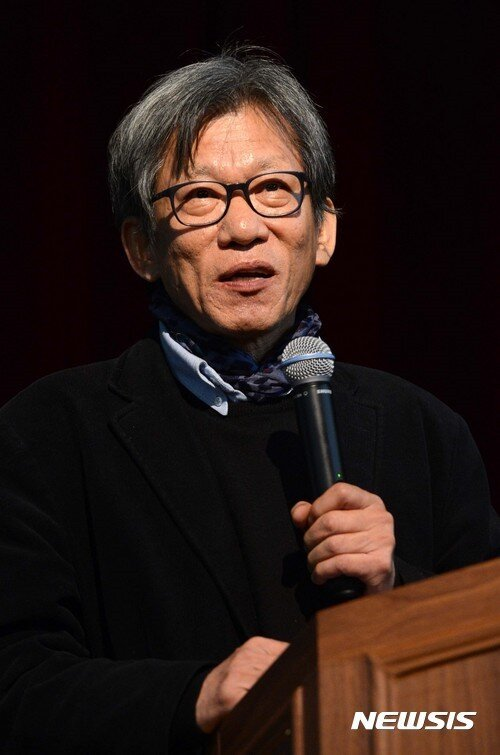
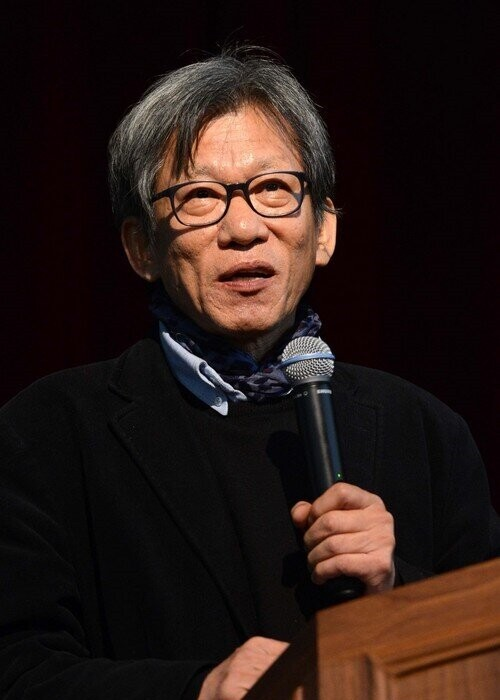
강사 슬라이드 디자인 피드백 반영: 49/84/85/109/116/129/130번 및 게임명 전체 수정
- 49번(고정관념 두 축): 중앙 안내 카드를 위쪽으로 이동해 좌우 패널 텍스트 가림 해소
- 84번(아는 만큼 보인다): 원본 PPT 삽화(돋보기 캐릭터) 복원
- 85번(유홍준 교수 인용): 사진 워터마크(NEWSIS) 크롭 제거, 인용구 2줄로 정리, 레이아웃 좌측 쏠림 보정
- 109번(스피드 줄줄이 말해요 인트로): 배경 흰색 → 검정으로 변경(본문 텍스트 가독성 문제 동시 해결)
- 116번(공감능력은 키울 수 있다): 인용문 줄바꿈 조정 및 글자 크기 확대
- 129번(1% 매일의 성장): 원본 PPT의 반복 곱셈 시각효과·노란 강조 배너를 웹앱 카드 양식으로 재구성
- 130번(스티븐 코비 인용): 기존 인용 슬라이드 패턴(큰 따옴표+본문+출처)에 맞춰 레이아웃 재정리
- '스피드 줄줄이 말해' → '스피드 줄줄이 말해요' 전체 수정

Changed region(s): [[0.21, 0.06, 1.0, 1.0], [0.63, 0.99, 0.66, 1.0]]

diff --git a/platform/public/host/index.html b/platform/public/host/index.html
@@ -833,7 +833,7 @@ a:hover{color:var(--red-300)}
 <div style="position:relative;display:grid;grid-template-columns:1fr 1fr;flex:1">
 <div data-build="1" data-build-fx="fade" style="background:var(--surface-inset);display:flex;flex-direction:column;align-items:center;justify-content:center;gap:20px;padding:72px"><span class="apex-eyebrow" style="font-size:27px;color:var(--text-muted)">상대방의 의도</span><span style="font-family:var(--font-display);font-weight:700;font-size:80px;color:var(--text-primary)">= 따뜻함</span></div>
 <div data-build="2" data-build-fx="fade" style="background:var(--grid-azure);display:flex;flex-direction:column;align-items:center;justify-content:center;gap:20px;padding:72px"><span class="apex-eyebrow" style="font-size:27px;color:rgba(6,7,10,.62)">의도를 실행할 능력</span><span style="font-family:var(--font-display);font-weight:700;font-size:80px;color:#06070A">= 유능함</span></div>
-<div style="position:absolute;top:50%;left:50%;transform:translate(-50%,-50%);width:920px;background:var(--carbon-950);border-radius:16px;padding:52px 60px;display:flex;flex-direction:column;align-items:center;gap:18px;text-align:center;box-shadow:0 32px 70px rgba(0,0,0,.4);z-index:2"><span style="font-size:52px;line-height:1">💡</span><p style="margin:0;font-size:38px;line-height:1.5;color:var(--white)">사람들은 타인을 판단할 때<br>고정관념적으로 판단하는 <span style="color:var(--grid-yellow)">2가지</span>가 있다</p></div>
+<div style="position:absolute;top:20%;left:50%;transform:translate(-50%,-50%);width:920px;background:var(--carbon-950);border-radius:16px;padding:36px 60px;display:flex;flex-direction:column;align-items:center;gap:14px;text-align:center;box-shadow:0 32px 70px rgba(0,0,0,.4);z-index:2"><span style="font-size:44px;line-height:1">💡</span><p style="margin:0;font-size:34px;line-height:1.5;color:var(--white)">사람들은 타인을 판단할 때<br>고정관념적으로 판단하는 <span style="color:var(--grid-yellow)">2가지</span>가 있다</p></div>
 </div>
 </section>
 
@@ -1192,16 +1192,16 @@ a:hover{color:var(--red-300)}
 <section data-label="아는 만큼 보인다" data-speaker-notes="퀴즈로 알 수 있는 것: 아는 만큼 보인다. '아는 만큼 보인다' 문구는 다음으로 입력 시 애니메이션으로 노출." style="background-color:var(--bg-page);background-image:var(--texture-carbon);color:var(--text-primary);font-family:var(--font-core);padding:52px 72px;display:flex;flex-direction:column;justify-content:center;gap:36px" data-om-slide-id="d2q-11">
 <div style="display:flex;align-items:center;justify-content:space-between;border-bottom:1px solid var(--border-hairline);padding-bottom:16px"><span class="apex-eyebrow" style="font-size:27px;color:var(--grid-yellow)">Quiz!를 통해 알 수 있는 것</span></div>
 <div data-build="1" data-build-fx="fade" style="flex:1;display:flex;align-items:center;justify-content:center"><h2 style="margin:0;font-family:var(--font-display);font-weight:700;font-size:130px;line-height:1.2;text-align:center">아는 <span style="color:var(--grid-yellow)">만큼</span> <span style="color:var(--grid-azure)">보</span>인다.</h2></div>
-<p style="margin:0;font-size:27px;color:var(--text-muted);text-align:right">미술사학자 유홍준 교수(제3대 문화재청 청장 역임) · &lt;나의 문화유산답사기&gt; 저자</p>
+<div style="display:flex;align-items:center;justify-content:flex-end;gap:24px"><img src="/host/assets/day2-quiz-magnifier.png" alt="" style="width:120px;height:auto;flex-shrink:0"><p style="margin:0;font-size:27px;color:var(--text-muted);text-align:right">미술사학자 유홍준 교수(제3대 문화재청 청장 역임) · &lt;나의 문화유산답사기&gt; 저자</p></div>
 </section>
 
 <section data-label="아는 만큼 보인다 인용" data-speaker-notes="유홍준 교수 인용. 관찰과 이해가 쌓여야 다르게 보인다는 메시지로 M4로 연결." style="background:#06070A;color:var(--white);font-family:var(--font-core);padding:0;display:flex;flex-direction:column" data-om-slide-id="d2q-12">
-<div style="display:grid;grid-template-columns:520px 1fr;flex:1">
-<div style="width:100%;height:100%;overflow:hidden"><img src="/host/assets/day2-prof-yoo.jpg" alt="유홍준 교수" style="width:100%;height:100%;object-fit:cover"></div>
-<div style="display:flex;flex-direction:column;justify-content:center;gap:28px;padding:64px 72px">
+<div style="display:grid;grid-template-columns:460px 1fr;flex:1">
+<div style="width:100%;height:100%;overflow:hidden"><img src="/host/assets/day2-prof-yoo.jpg" alt="유홍준 교수" style="width:100%;height:100%;object-fit:cover;object-position:50% 15%"></div>
+<div style="display:flex;flex-direction:column;justify-content:center;gap:28px;padding:64px 96px">
 <span class="apex-eyebrow" style="font-size:27px;color:var(--grid-azure)">아는 만큼 보인다!</span>
 <span class="apex-num apex-skew" style="display:inline-block;font-size:80px;color:var(--red-500);line-height:1">“</span>
-<p style="margin:0;font-size:52px;line-height:1.5;color:var(--white)">사랑하면 알게 되고 <br>알게 되면 보이나니, <br>그때 보이는 것은 <br>전과 같지 않으리라.</p>
+<p style="margin:0;font-size:52px;line-height:1.5;color:var(--white)">사랑하면 알게 되고 알게 되면 보이나니, <br>그때 보이는 것은 전과 같지 않으리라.</p>
 <p style="margin:0;font-size:27px;color:var(--text-muted)">- 미술사학자 유홍준 교수(제3대 문화재청 청장 역임) <br>&lt;나의 문화유산답사기&gt; 저자 -</p>
 </div>
 </div>
@@ -1580,17 +1580,17 @@ a:hover{color:var(--red-300)}
 <button type="button" data-build-start="1" onClick="{{ vid4Toggle }}" style="background:transparent;color:var(--text-muted);border:1px solid var(--border-hairline);border-radius:4px;padding:8px 18px;font-family:var(--font-display);font-weight:700;font-size:16px;letter-spacing:.1em;cursor:pointer">{{ vid4Btn }}</button>
 </section>
 
-<section class="apex-light" data-label="소통리더십 마인드 인트로" data-speaker-notes="반원들의 성장을 위한 소통리더십 마인드 3가지 - 게임: 스피드 줄줄이 말해." style="background:var(--bg-page);color:var(--text-primary);font-family:var(--font-core);padding:52px 72px;display:flex;flex-direction:column;justify-content:center;gap:36px" data-om-slide-id="d2c-02">
+<section data-label="소통리더십 마인드 인트로" data-speaker-notes="반원들의 성장을 위한 소통리더십 마인드 3가지 - 게임: 스피드 줄줄이 말해요." style="background:#06070A;color:var(--text-primary);font-family:var(--font-core);padding:52px 72px;display:flex;flex-direction:column;justify-content:center;gap:36px" data-om-slide-id="d2c-02">
 <div style="display:flex;align-items:center;justify-content:space-between;border-bottom:1px solid var(--border-hairline);padding-bottom:16px"><span class="apex-eyebrow" style="font-size:27px;color:var(--text-muted)">반원들의 성장을 위한 소통리더십 마인드 3가지</span></div>
 <div style="flex:1;display:flex;flex-direction:column;align-items:center;justify-content:center;gap:32px">
-<span style="background:var(--grid-yellow);color:#06070A;font-family:var(--font-display);font-weight:700;font-size:56px;padding:24px 56px;border-radius:999px">스피드 줄줄이 말해</span>
+<span style="background:var(--grid-yellow);color:#06070A;font-family:var(--font-display);font-weight:700;font-size:56px;padding:24px 56px;border-radius:999px">스피드 줄줄이 말해요</span>
 <p style="margin:0;font-size:44px;line-height:1.6;color:var(--white);text-align:center">제시어를 보고 떠오르는 단어를<br>팀원들과 겹치지 않게 순서대로 말하는 게임</p>
 <p style="margin:0;font-size:32px;color:var(--text-muted)">예) 과일이름: 수박, 딸기, 바나나, 사과 등</p>
 </div>
 </section>
 
-<section class="apex-light" data-label="게임 룰" data-speaker-notes="스피드 줄줄이 말해 게임 진행 규칙." style="background:var(--bg-page);color:var(--text-primary);font-family:var(--font-core);padding:52px 72px;display:flex;flex-direction:column;justify-content:center;gap:36px" data-om-slide-id="d2c-03">
-<div style="display:flex;align-items:center;justify-content:space-between;border-bottom:1px solid var(--border-hairline);padding-bottom:16px"><span class="apex-eyebrow" style="font-size:27px;color:var(--text-muted)">스피드 줄줄이 말해 · RULE</span></div>
+<section class="apex-light" data-label="게임 룰" data-speaker-notes="스피드 줄줄이 말해요 게임 진행 규칙." style="background:var(--bg-page);color:var(--text-primary);font-family:var(--font-core);padding:52px 72px;display:flex;flex-direction:column;justify-content:center;gap:36px" data-om-slide-id="d2c-03">
+<div style="display:flex;align-items:center;justify-content:space-between;border-bottom:1px solid var(--border-hairline);padding-bottom:16px"><span class="apex-eyebrow" style="font-size:27px;color:var(--text-muted)">스피드 줄줄이 말해요 · RULE</span></div>
 <div style="display:flex;flex-direction:column;justify-content:center;gap:2px;flex:1">
 <div style="background:var(--surface-card);border-left:6px solid var(--grid-yellow);display:flex;gap:28px;padding:30px 36px;align-items:center"><span class="apex-num apex-skew" style="display:inline-block;font-size:48px;color:var(--grid-yellow);width:64px">1</span><p style="margin:0;flex:1;font-size:40px;line-height:1.5;color:var(--text-primary)">‘도전’을 외쳐야 기회 제공</p></div>
 <div style="background:var(--surface-card);border-left:6px solid var(--grid-yellow);display:flex;gap:28px;padding:30px 36px;align-items:center"><span class="apex-num apex-skew" style="display:inline-block;font-size:48px;color:var(--grid-yellow);width:64px">2</span><p style="margin:0;flex:1;font-size:40px;line-height:1.5;color:var(--text-primary)">강사가 지정한 사람부터 오른쪽 방향으로 진행</p></div>
@@ -1599,8 +1599,8 @@ a:hover{color:var(--red-300)}
 </div>
 </section>
 
-<section class="apex-light" data-label="게임 주제 예시" data-speaker-notes="스피드 줄줄이 말해 제시어 예시 목록." style="background:var(--bg-page);color:var(--text-primary);font-family:var(--font-core);padding:52px 72px;display:flex;flex-direction:column;justify-content:center;gap:36px" data-om-slide-id="d2c-04">
-<div style="display:flex;align-items:center;justify-content:space-between;border-bottom:1px solid var(--border-hairline);padding-bottom:16px"><span class="apex-eyebrow" style="font-size:27px;color:var(--text-muted)">스피드 줄줄이 말해 · 제시어 예시</span></div>
+<section class="apex-light" data-label="게임 주제 예시" data-speaker-notes="스피드 줄줄이 말해요 제시어 예시 목록." style="background:var(--bg-page);color:var(--text-primary);font-family:var(--font-core);padding:52px 72px;display:flex;flex-direction:column;justify-content:center;gap:36px" data-om-slide-id="d2c-04">
+<div style="display:flex;align-items:center;justify-content:space-between;border-bottom:1px solid var(--border-hairline);padding-bottom:16px"><span class="apex-eyebrow" style="font-size:27px;color:var(--text-muted)">스피드 줄줄이 말해요 · 제시어 예시</span></div>
 <div style="display:grid;grid-template-columns:repeat(2,1fr);gap:2px;flex:1">
 <div style="background:var(--surface-card);padding:36px 44px;display:flex;align-items:center"><p style="margin:0;font-size:42px;color:var(--text-primary)">두 글자 과자 이름</p></div>
 <div style="background:var(--surface-card);padding:36px 44px;display:flex;align-items:center"><p style="margin:0;font-size:42px;color:var(--text-primary)">두 글자 영화 제목</p></div>
@@ -1654,7 +1654,7 @@ a:hover{color:var(--red-300)}
 <div style="display:grid;grid-template-columns:1fr 420px;gap:56px;flex:1;align-items:center">
 <div style="display:flex;flex-direction:column;gap:20px">
 <span class="apex-num apex-skew" style="display:inline-block;font-size:80px;color:var(--grid-yellow);line-height:1">“</span>
-<p style="margin:0;font-size:38px;line-height:1.6;color:var(--white)">타고난 성격은 쉽게 바꾸기 어렵지만, 성품은 노력에 따라 얼마든지 달라질 수 있습니다.</p>
+<p style="margin:0;font-size:46px;line-height:1.5;color:var(--white)">타고난 성격은 쉽게 바꾸기 어렵지만, <br>성품은 노력에 따라 얼마든지 달라질 수 있습니다.</p>
 <p style="margin:0;font-size:32px;line-height:1.6;color:var(--text-body)">성품이란 다른 사람의 마음을 헤아리는 공감, 상대를 배려하며 말하는 화법, 상황과 분위기를 살피는 센스, 그리고 함께 협력하고 공존하려는 태도와 노력입니다.</p>
 <p style="margin:0;font-size:27px;color:var(--text-muted)">- 인지심리학자 아주대학교 김경일 교수 -</p>
 </div>
@@ -1801,16 +1801,20 @@ a:hover{color:var(--red-300)}
 
 <section class="apex-light" data-label="1% 매일의 성장" data-speaker-notes="나의 작은 실천이 우리 반원의 성장과 성과에 영향을 미친다. (1.00)^365=1 vs (1.01)^365=37.78. 음성 내레이션 포함, '다음으로' 1회 = 재생, 2회 = 일시정지." style="background:var(--bg-page);color:var(--text-primary);font-family:var(--font-core);padding:52px 72px;display:flex;flex-direction:column;justify-content:center;gap:32px" data-om-slide-id="d2f-01">
 <div style="display:flex;align-items:center;justify-content:space-between;border-bottom:1px solid var(--border-hairline);padding-bottom:16px"><span class="apex-eyebrow" style="font-size:27px;color:var(--text-muted)">나의 작은 실천이 우리의 반원의 성장과 성과에 영향을 미친다</span></div>
-<div style="display:grid;grid-template-columns:1fr 1fr;gap:2px;flex:1">
-<div style="background:var(--surface-card);display:flex;flex-direction:column;align-items:center;justify-content:center;gap:18px;padding:36px">
-<p style="margin:0;font-family:var(--font-display);font-weight:700;font-size:48px;color:var(--text-muted)">(1.00)<sup style="font-size:28px">365</sup> = 1</p>
-<p style="margin:0;font-size:22px;line-height:1.7;color:var(--text-muted);text-align:center">1.00 X 1.00 X 1.00 X ⋯ X 1.00 =</p>
-<p style="margin:0;font-family:var(--font-display);font-weight:700;font-size:72px;color:var(--text-muted)">1.00</p>
+<div style="display:grid;grid-template-columns:1fr 1fr;gap:28px;flex:1">
+<div style="display:flex;flex-direction:column;gap:14px">
+<p style="margin:0;font-family:var(--font-display);font-weight:700;font-size:44px;color:var(--text-muted);text-align:center">(1.00)<sup style="font-size:24px">365</sup> = 1</p>
+<div style="background:var(--surface-card);border-radius:12px;flex:1;display:flex;flex-direction:column;align-items:center;justify-content:center;gap:20px;padding:32px">
+<p style="margin:0;font-size:19px;line-height:1.9;color:var(--text-muted);text-align:center">1.00 X 1.00 X 1.00 X 1.00 X 1.00<br>X 1.00 X 1.00 X 1.00 X 1.00 X 1.00<br>X 1.00 X 1.00 X 1.00 X 1.00 X 1.00<br>X 1.00 X 1.00 · · · · · X 1.00 =</p>
+<p style="margin:0;font-family:var(--font-display);font-weight:700;font-size:64px;color:var(--text-muted)">1.00</p>
 </div>
-<div style="background:var(--surface-card);border-top:6px solid var(--grid-yellow);display:flex;flex-direction:column;align-items:center;justify-content:center;gap:18px;padding:36px">
-<p style="margin:0;font-family:var(--font-display);font-weight:700;font-size:48px;color:var(--grid-yellow)">(1.01)<sup style="font-size:28px">365</sup> = 37.78</p>
-<p style="margin:0;font-size:22px;line-height:1.7;color:var(--text-body);text-align:center">1.01 X 1.01 X 1.01 X ⋯ X 1.01 =</p>
-<p style="margin:0;font-family:var(--font-display);font-weight:700;font-size:72px;color:var(--red-500)">37.78</p>
+</div>
+<div style="display:flex;flex-direction:column;gap:14px">
+<p style="margin:0;font-family:var(--font-display);font-weight:700;font-size:44px;color:#06070A;text-align:center;background:var(--grid-yellow);border-radius:999px;padding:6px 0">(1.01)<sup style="font-size:24px">365</sup> = 37.78</p>
+<div style="background:var(--surface-card);border-top:6px solid var(--grid-yellow);border-radius:12px;flex:1;display:flex;flex-direction:column;align-items:center;justify-content:center;gap:20px;padding:32px">
+<p style="margin:0;font-size:19px;line-height:1.9;color:var(--text-body);text-align:center">1.01 X 1.01 X 1.01 X 1.01 X 1.01<br>X 1.01 X 1.01 X 1.01 X 1.01 X 1.01<br>X 1.01 X 1.01 X 1.01 X 1.01 X 1.01<br>X 1.01 X 1.01 · · · · · X 1.01 =</p>
+<p style="margin:0;font-family:var(--font-display);font-weight:700;font-size:64px;color:var(--red-500)">37.78</p>
+</div>
 </div>
 </div>
 <div style="display:flex;flex-direction:column;align-items:center;gap:10px">
@@ -1821,16 +1825,15 @@ a:hover{color:var(--red-300)}
 
 <section data-label="스티븐 코비 인용" data-speaker-notes="매일의 작은 개선이 결국 엄청난 성과로 이어진다 - 스티븐 코비." style="background:#06070A;color:var(--white);font-family:var(--font-core);padding:0;display:flex;flex-direction:column" data-om-slide-id="d2f-02">
 <div style="display:grid;grid-template-columns:1fr 520px;flex:1">
-<div style="display:flex;flex-direction:column;justify-content:center;gap:22px;padding:64px 72px">
+<div style="display:flex;flex-direction:column;justify-content:center;gap:24px;padding:64px 72px">
 <span class="apex-eyebrow" style="font-size:27px;color:var(--grid-yellow)">나의 작은 실천이 우리의 반원의 성장과 성과에 영향을 미친다</span>
-<p style="margin:0;font-style:italic;font-size:28px;color:var(--text-muted)">"Small daily improvements eventually lead to massive results."</p>
-<div style="display:flex;align-items:flex-start;gap:16px">
-<img src="/host/assets/day2-covey-book.jpg" alt="7 Habits on the Go" style="width:140px;border-radius:6px;flex-shrink:0">
-<div style="display:flex;flex-direction:column;gap:14px">
-<p style="margin:0;font-family:var(--font-display);font-weight:700;font-size:46px;line-height:1.4;color:var(--white)">매일의 작은 개선이<br>결국 엄청난 성과로 이어진다.</p>
+<span class="apex-num apex-skew" style="display:inline-block;font-size:80px;color:var(--red-500);line-height:1">“</span>
+<p style="margin:0;font-family:var(--font-display);font-weight:700;font-size:52px;line-height:1.4;color:var(--white)">매일의 작은 개선이<br>결국 엄청난 성과로 이어진다.</p>
+<p style="margin:0;font-style:italic;font-size:26px;color:var(--text-muted)">"Small daily improvements eventually lead to massive results."</p>
+<div style="display:flex;align-items:center;gap:16px;margin-top:8px">
+<img src="/host/assets/day2-covey-book.jpg" alt="7 Habits on the Go" style="width:70px;border-radius:4px;flex-shrink:0">
+<p style="margin:0;font-size:26px;line-height:1.5;color:var(--text-muted)">- 경영 컨설턴트, 작가, 연설가, 리더십과 자기계발 분야의 전문가<br>스티븐 코비(Stephen R. Covey) -</p>
 </div>
-</div>
-<p style="margin:0;font-size:26px;color:var(--text-muted)">- 경영 컨설턴트, 작가, 연설가, 리더십과 자기계발 분야의 전문가 스티븐 코비(Stephen R. Covey) -</p>
 </div>
 <div style="width:100%;height:100%;overflow:hidden"><img src="/host/assets/day2-stephen-covey.jpg" alt="스티븐 코비" style="width:100%;height:100%;object-fit:cover;object-position:center 20%"></div>
 </div>
